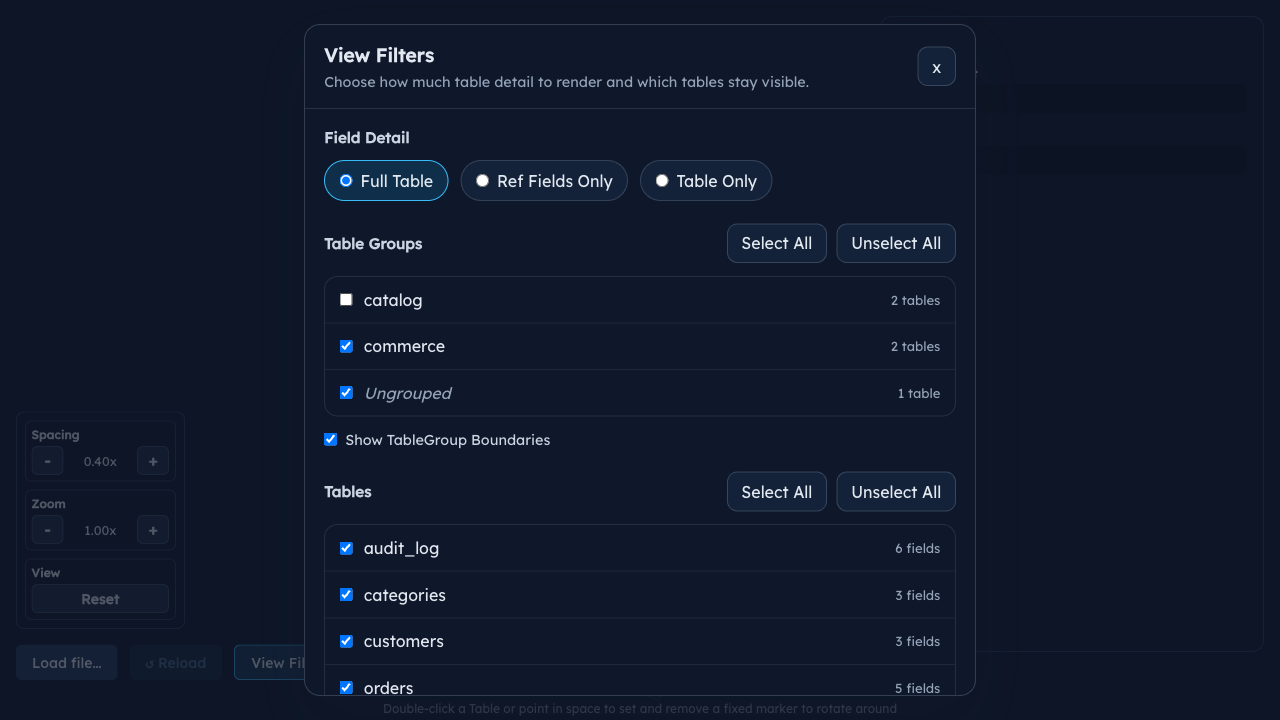
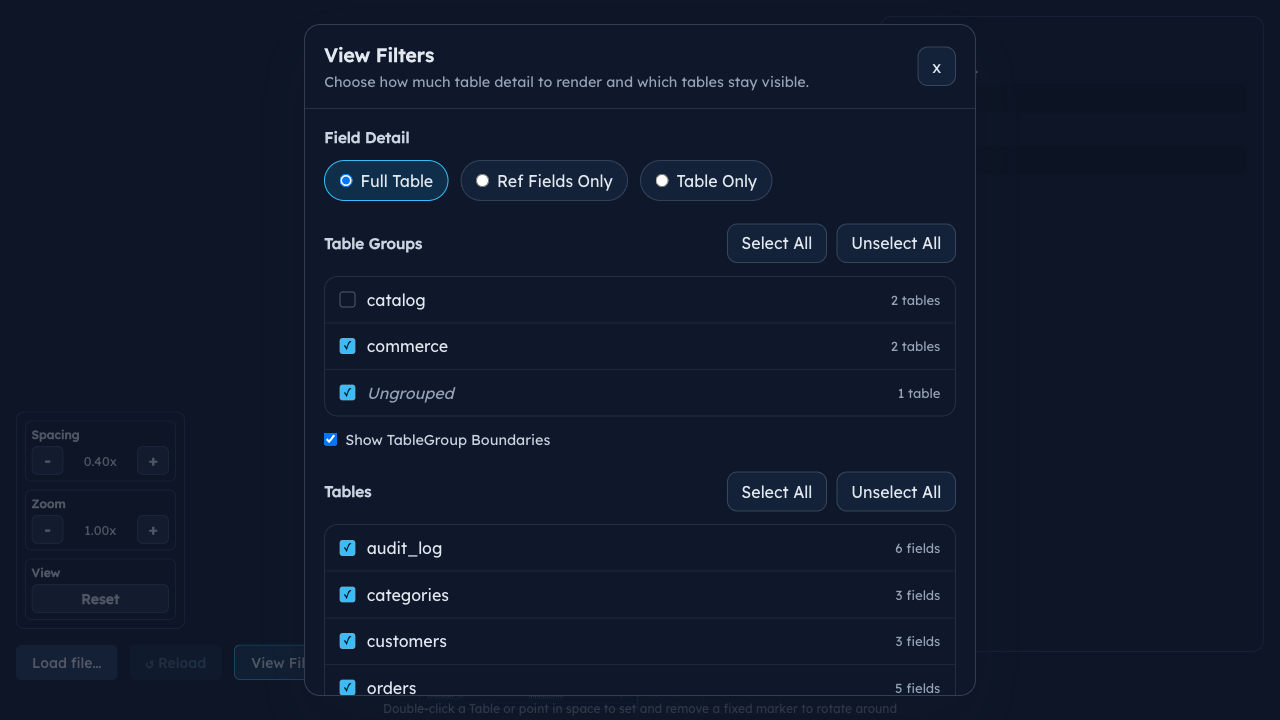
fix: remove flushSync from filter dialog to fix E2E checkbox toggles
flushSync inside a React onClick handler caused aria-checked to
double-toggle for custom role=checkbox buttons, leaving them visually
checked after Playwright's .uncheck() action. Removing flushSync lets
React batch the update normally; Playwright's built-in retry on
aria-checked handles the async propagation.

Also includes updated test-evidence screenshots and AGENTS.md additions
for ast-grep tooling guidance.

diff --git a/src/ui/ViewFiltersDialog.tsx b/src/ui/ViewFiltersDialog.tsx
@@ -1,5 +1,4 @@
 import { useEffect, useMemo, type CSSProperties, type ReactElement } from 'react';
-import { flushSync } from 'react-dom';
 import type { FilterState, ParsedTable, ParsedTableGroup } from '@/types';
 
 interface ViewFiltersDialogProps {
@@ -66,9 +65,7 @@ export default function ViewFiltersDialog({
   onClose,
 }: ViewFiltersDialogProps): ReactElement | null {
   function commitFilterState(nextFilterState: FilterState): void {
-    flushSync(() => {
-      setFilterState(nextFilterState);
-    });
+    setFilterState(nextFilterState);
   }
 
   const sortedTables = useMemo(

diff --git a/AGENTS.md b/AGENTS.md
@@ -68,6 +68,36 @@ Key packages:
 
 ---
 
+## Code Search Tools
+
+`ast-grep` is installed and available via Bash. Use it for structural code
+searches where text matching is fragile — e.g. finding all call sites of a
+function regardless of formatting, detecting anti-patterns, or preparing
+codemods.
+
+Prefer `ast-grep` over `grep`/Grep when:
+
+- The pattern spans multiple lines or involves nesting (e.g. JSX props,
+  callback shapes)
+- You need to match by syntax role rather than text (e.g. "all arrow functions
+  returned from `useMemo`")
+- You're auditing API usage across the codebase (e.g. every `useFrame` call,
+  every `new BufferGeometry()`)
+
+Example:
+
+```bash
+# Find all useFrame hooks
+ast-grep --pattern 'useFrame($$$)' --lang tsx
+
+# Find Three.js geometry constructors (to audit disposal)
+ast-grep --pattern 'new $TYPE($$$)' --lang tsx src/renderer/
+```
+
+Continue using the built-in Grep tool for simple text/regex searches.
+
+---
+
 ## Testing
 
 ### Philosophy
